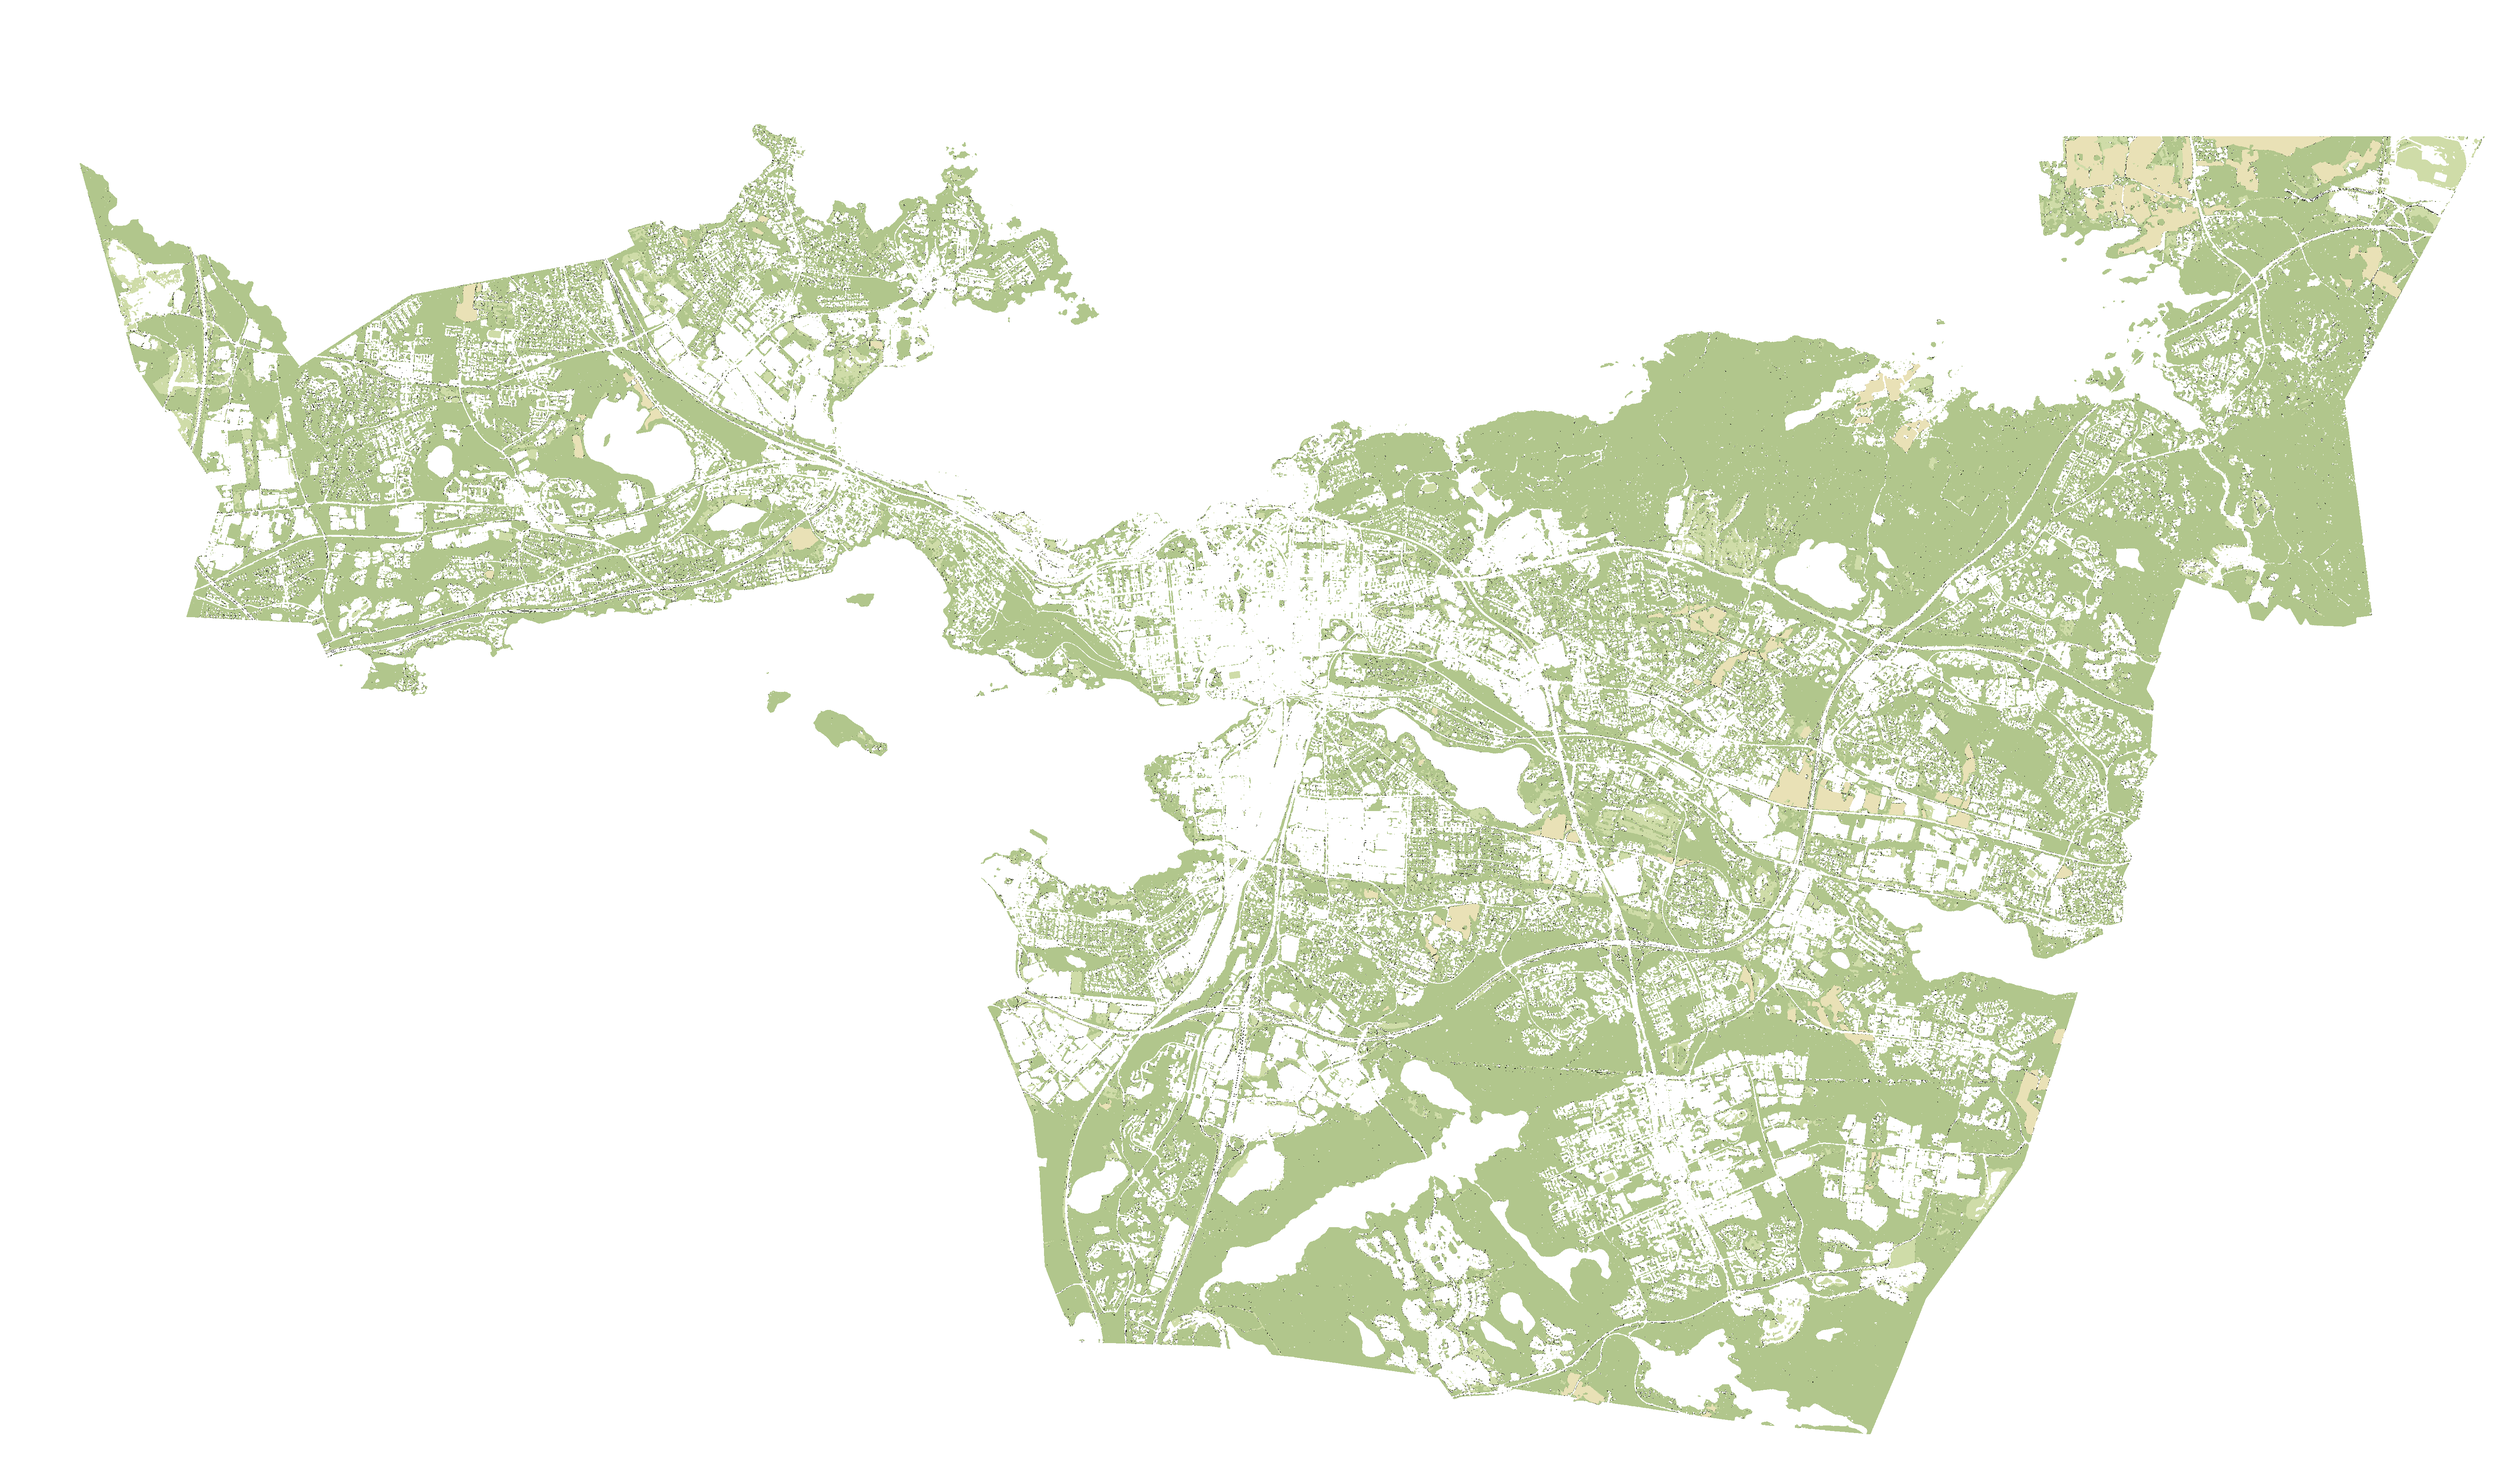
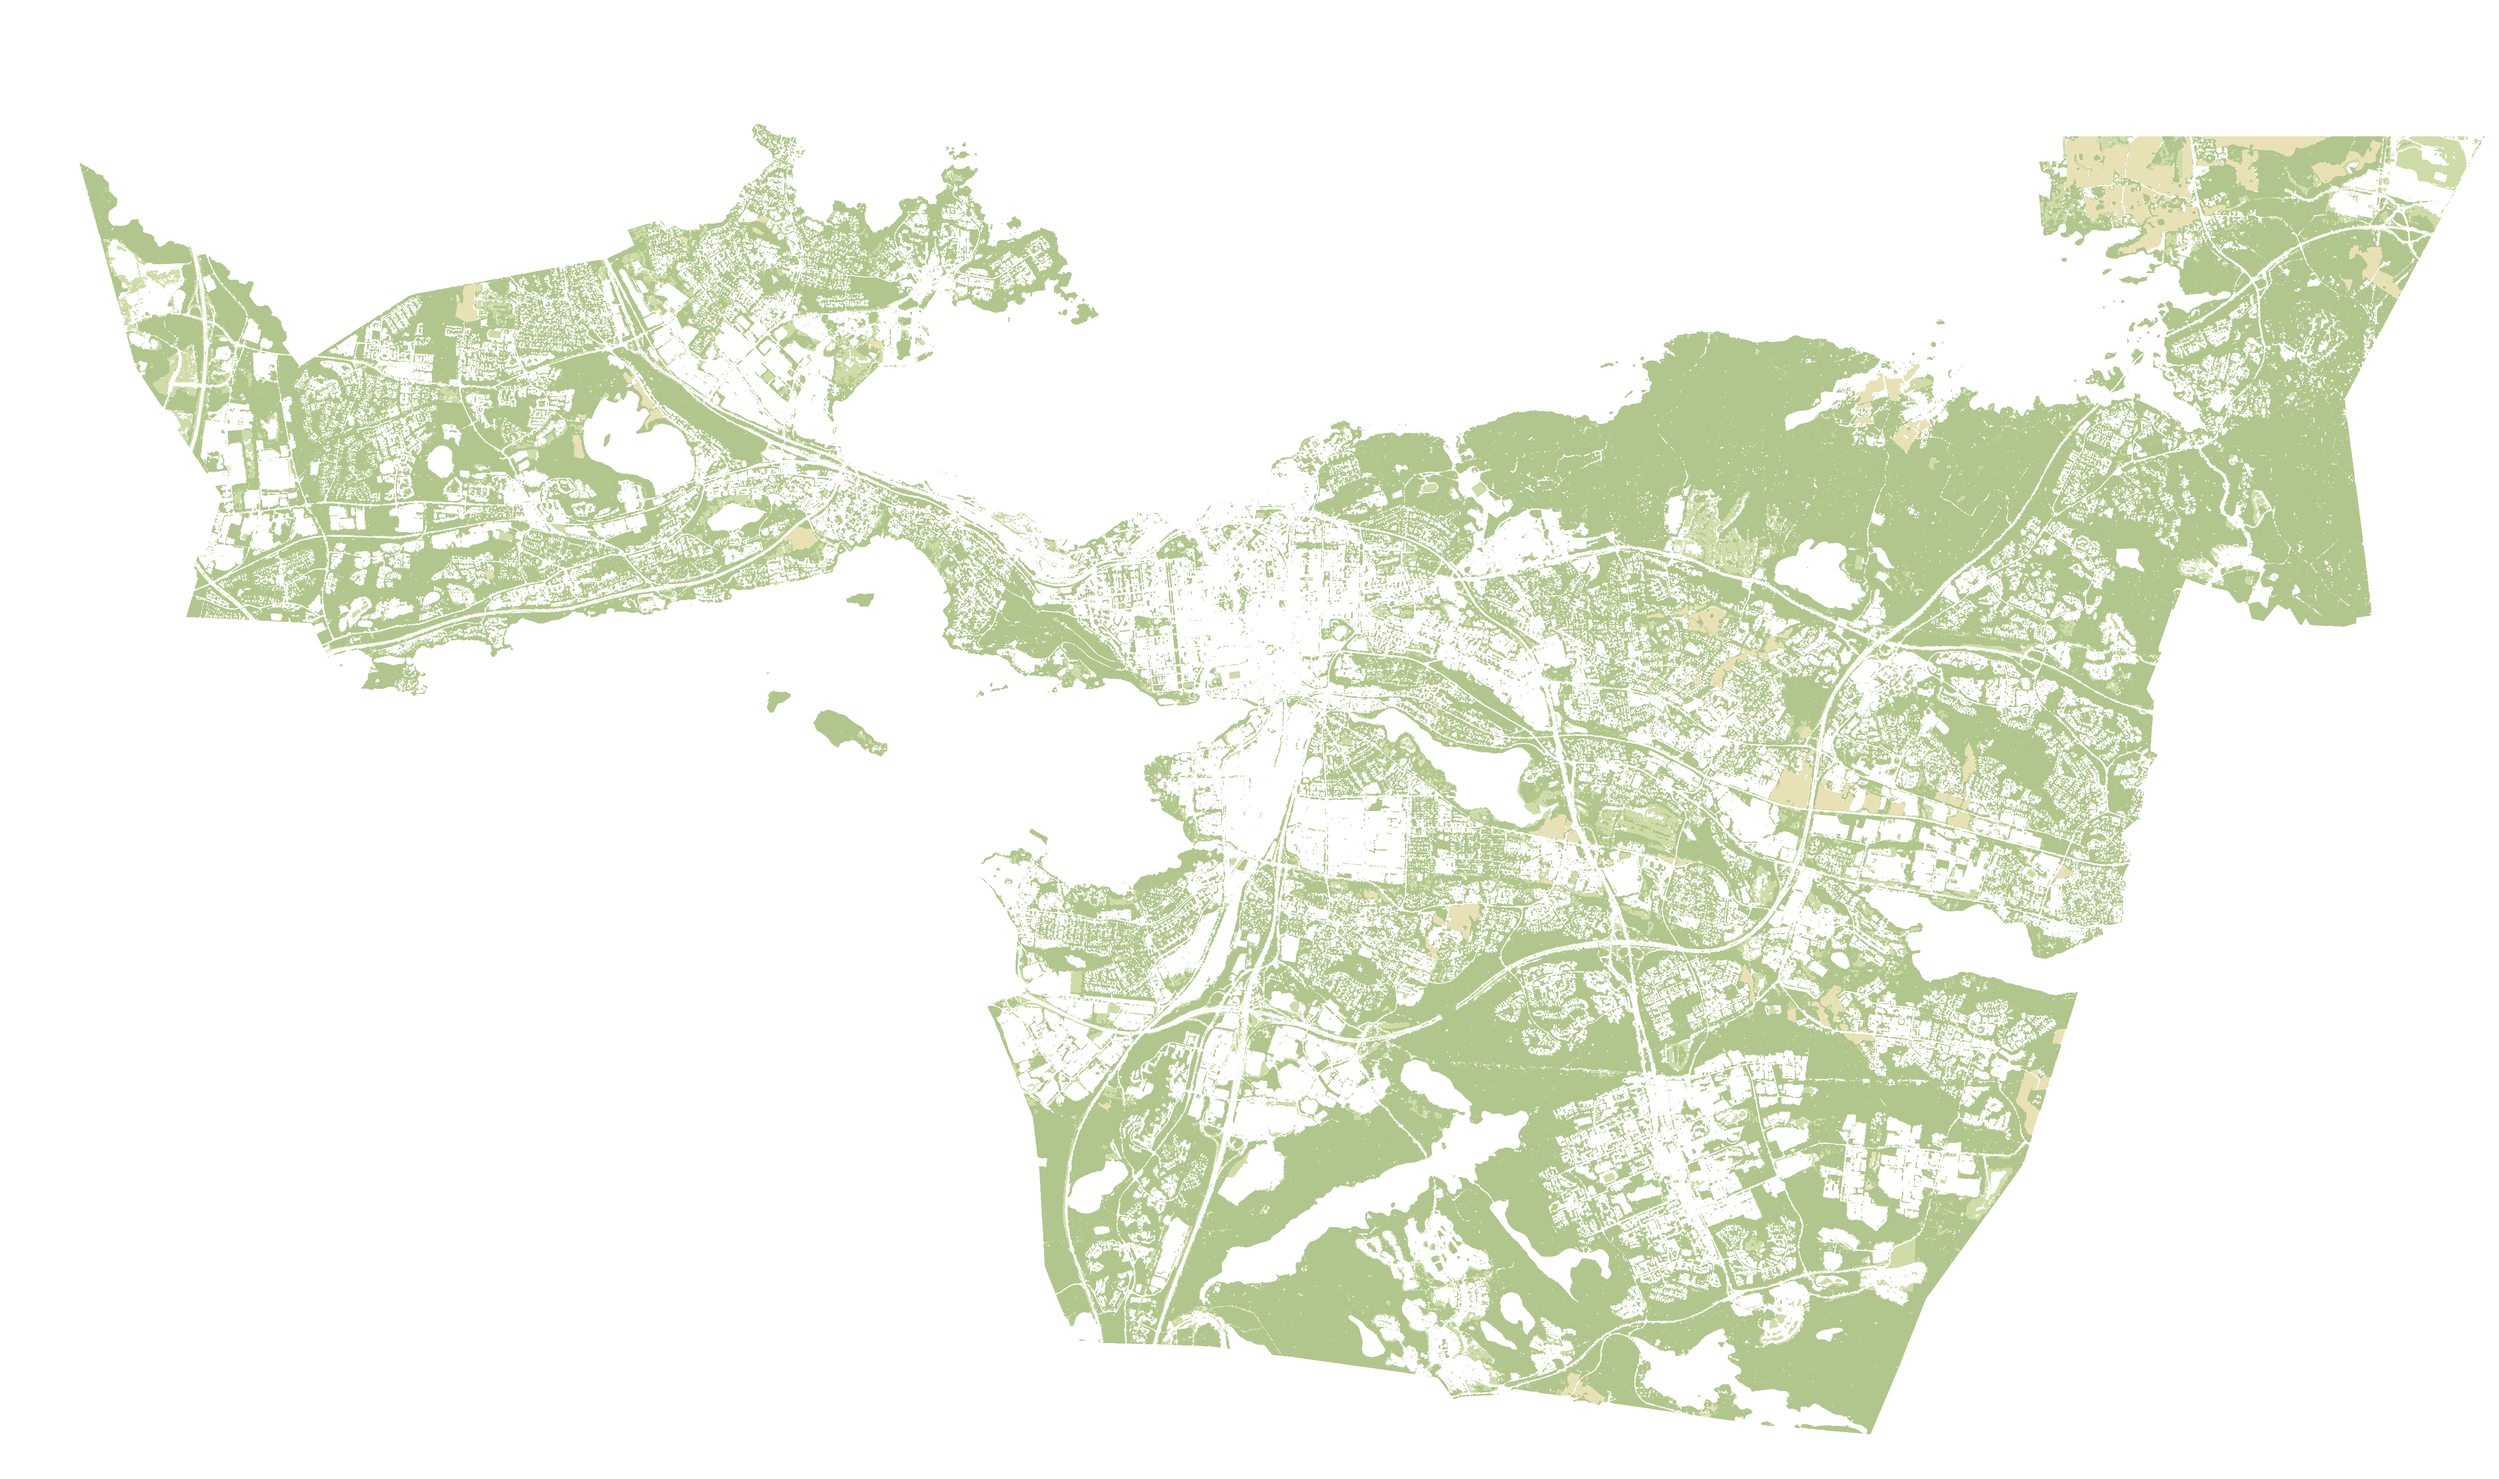
Kadunnimet
Claude-Session: https://claude.ai/code/session_01KkBAwUHtts4kWkEAcEP2r3

diff --git a/index.html b/index.html
@@ -199,6 +199,7 @@ aside a{color:var(--brick)}
     <label><input type="checkbox" id="lDem"> Puretut rakennukset</label>
     <label><input type="checkbox" id="lUnk"> Rakennukset, joiden vuosi puuttuu</label>
     <label><input type="checkbox" id="lLM"> Maamerkit (★)</label>
+    <label><input type="checkbox" id="lKadut" checked> Kadunnimet</label>
     <label style="margin-bottom:4px">Väritys <select id="pop" style="font:inherit;font-size:12px"><optgroup label="Rakennukset"><option value="year" selected>Rakennusvuosi</option><option value="type">Käyttötarkoitus</option></optgroup><optgroup label="Väestö (postinumeroalueittain)"><option value="tih">Asukastiheys</option><option value="kika">Keski-ikä</option><option value="mtu">Mediaanitulot</option><option value="korkea">Korkeakoulutetut</option><option value="vuokra">Vuokralla asuvat taloudet</option><option value="yksin">Yhden hengen taloudet</option><option value="lapset">Lapset 0–15 v</option><option value="yli65">Yli 65-vuotiaat</option><option value="tyott">Työttömyysaste</option><option value="kasvu">Väestönmuutos 2013–2024</option></optgroup></select></label>
     <label><input type="checkbox" id="lNames"> Vanhat paikannimet</label>
     <div class="ngrp" id="ngrp"></div>
@@ -371,12 +372,27 @@ function render(){
   // labels
   ctx.setTransform(DPR,0,0,DPR,0,0);
   if(AEY){const t=cv.width/DPR<600?`Ilmakuva ${AEY} · Tre CC BY 4.0`:`Ilmakuva ${AEY} · Tampereen kaupunki, CC BY 4.0`;ctx.font='600 12px system-ui,sans-serif';ctx.textAlign='left';ctx.textBaseline='alphabetic';const w=ctx.measureText(t).width+16;const W2=cv.width/DPR;const nx=W2<600?12:W2-w-60,ny=W2<600?52:12;ctx.fillStyle='rgba(31,26,20,.82)';ctx.fillRect(nx,ny,w,24);ctx.fillStyle='#fffaf0';ctx.fillText(t,nx+8,ny+16);}
+  drawStreetNames();
   const nb=drawNames();
   labels(nb);
   drawTPL();
   drawLM();
   drawArk();
 }
+// Kadunnimet (Tampereen kaupungin katuosat, nimet nimistörekisteristä). Luokka 0 = pääväylä … 4 = tonttikatu.
+let KADUT=null;fetch('data/katunimet.json').then(r=>r.ok?r.json():null).then(d=>{if(!d)return;KADUT=d.map(([n,r,ls])=>({n,r,ls:ls.map(l=>{const o=[];let x=l[0],y=l[1];o.push(x,y);for(let i=2;i<l.length;i+=2){x+=l[i];y+=l[i+1];o.push(x,y);}return o;})}));draw();}).catch(()=>{});
+const KMIN=[.12,.16,.3,.45,.7];
+function drawStreetNames(){if(!KADUT||POP||!document.getElementById('lKadut').checked)return;const k=T.k;if(k<KMIN[0])return;
+  const W2=cv.width/DPR,H2=cv.height/DPR,boxes=[];ctx.font="500 11px 'IBM Plex Sans',system-ui,sans-serif";ctx.textAlign='center';ctx.textBaseline='middle';ctx.lineJoin='round';
+  const hit=(b)=>boxes.some(o=>b[0]<o[2]&&b[2]>o[0]&&b[1]<o[3]&&b[3]>o[1]);
+  for(const st of KADUT){if(k<KMIN[st.r])continue;const tw=ctx.measureText(st.n).width+10;let placed=0;
+    for(const L of st.ls){let best=null,bl=0;
+      for(let i=0;i<L.length-2;i+=2){const [ax,ay]=toScreen(L[i],L[i+1]),[bx,by]=toScreen(L[i+2],L[i+3]);const len=Math.hypot(bx-ax,by-ay);if(len>bl){bl=len;best=[ax,ay,bx,by];}}
+      if(!best||bl<tw)continue;const cx=(best[0]+best[2])/2,cy=(best[1]+best[3])/2;if(cx<0||cy<0||cx>W2||cy>H2)continue;
+      let a=Math.atan2(best[3]-best[1],best[2]-best[0]);if(a>Math.PI/2)a-=Math.PI;if(a<-Math.PI/2)a+=Math.PI;
+      const hx=Math.abs(Math.cos(a))*tw/2+Math.abs(Math.sin(a))*7,hy=Math.abs(Math.sin(a))*tw/2+Math.abs(Math.cos(a))*7,b=[cx-hx,cy-hy,cx+hx,cy+hy];if(hit(b))continue;boxes.push(b);
+      ctx.save();ctx.translate(cx,cy);ctx.rotate(a);ctx.lineWidth=3;ctx.strokeStyle='rgba(255,255,255,.9)';ctx.strokeText(st.n,0,0);ctx.fillStyle='#4f4b45';ctx.fillText(st.n,0,0);ctx.restore();
+      if(++placed>=3)break;}}}
 function drawTPL(){if(!TPL||(VIEW!=='teema'&&VIEW!=='henk'))return;
   TPL.forEach((o,k)=>{const [sx,sy]=toScreen(o[1],o[2]);const on=k===TPSEL,r=on?13:10;ctx.beginPath();ctx.arc(sx,sy,r,0,7);ctx.fillStyle=on?'#1f1a14':'#a4472f';ctx.fill();ctx.lineWidth=2;ctx.strokeStyle='#fffaf0';ctx.stroke();ctx.fillStyle='#fffaf0';ctx.font='600 11px Inter,system-ui,sans-serif';ctx.textAlign='center';ctx.textBaseline='middle';ctx.fillText(k+1,sx,sy+.5);
     if(on){ctx.font='600 13px Inter,system-ui,sans-serif';ctx.textAlign='left';const w=ctx.measureText(o[0]).width;ctx.fillStyle='rgba(255,250,240,.95)';ctx.fillRect(sx+16,sy-11,w+12,22);ctx.strokeStyle='#1f1a14';ctx.lineWidth=1;ctx.strokeRect(sx+16,sy-11,w+12,22);ctx.fillStyle='#1f1a14';ctx.fillText(o[0],sx+22,sy+.5);}});
@@ -478,7 +494,7 @@ function pick(sx,sy){if(!DATA)return -1;const [wx,wy]=toWorld(sx,sy);const ds=DA
   for(let i=0;i<ds.length;i++){const b=ds[i].bb;if(wx<b[0]||wx>b[2]||wy<b[1]||wy>b[3])continue;if(hit.isPointInPath(P.dist[i],wx,-wy))return i;}return -1;}
 
 // ---------- controls ----------
-['lBorder','lDem','lUnk','lLM'].forEach(id=>document.getElementById(id).onchange=draw);
+['lBorder','lDem','lUnk','lLM','lKadut'].forEach(id=>document.getElementById(id).onchange=draw);
 const yr=document.getElementById('year');
 function setYear(y){YEAR=+y;yr.value=YEAR;document.getElementById('yr').textContent=YEAR;
   const a=P.annex?P.annex.filter(x=>x.y<=YEAR).pop():null;
